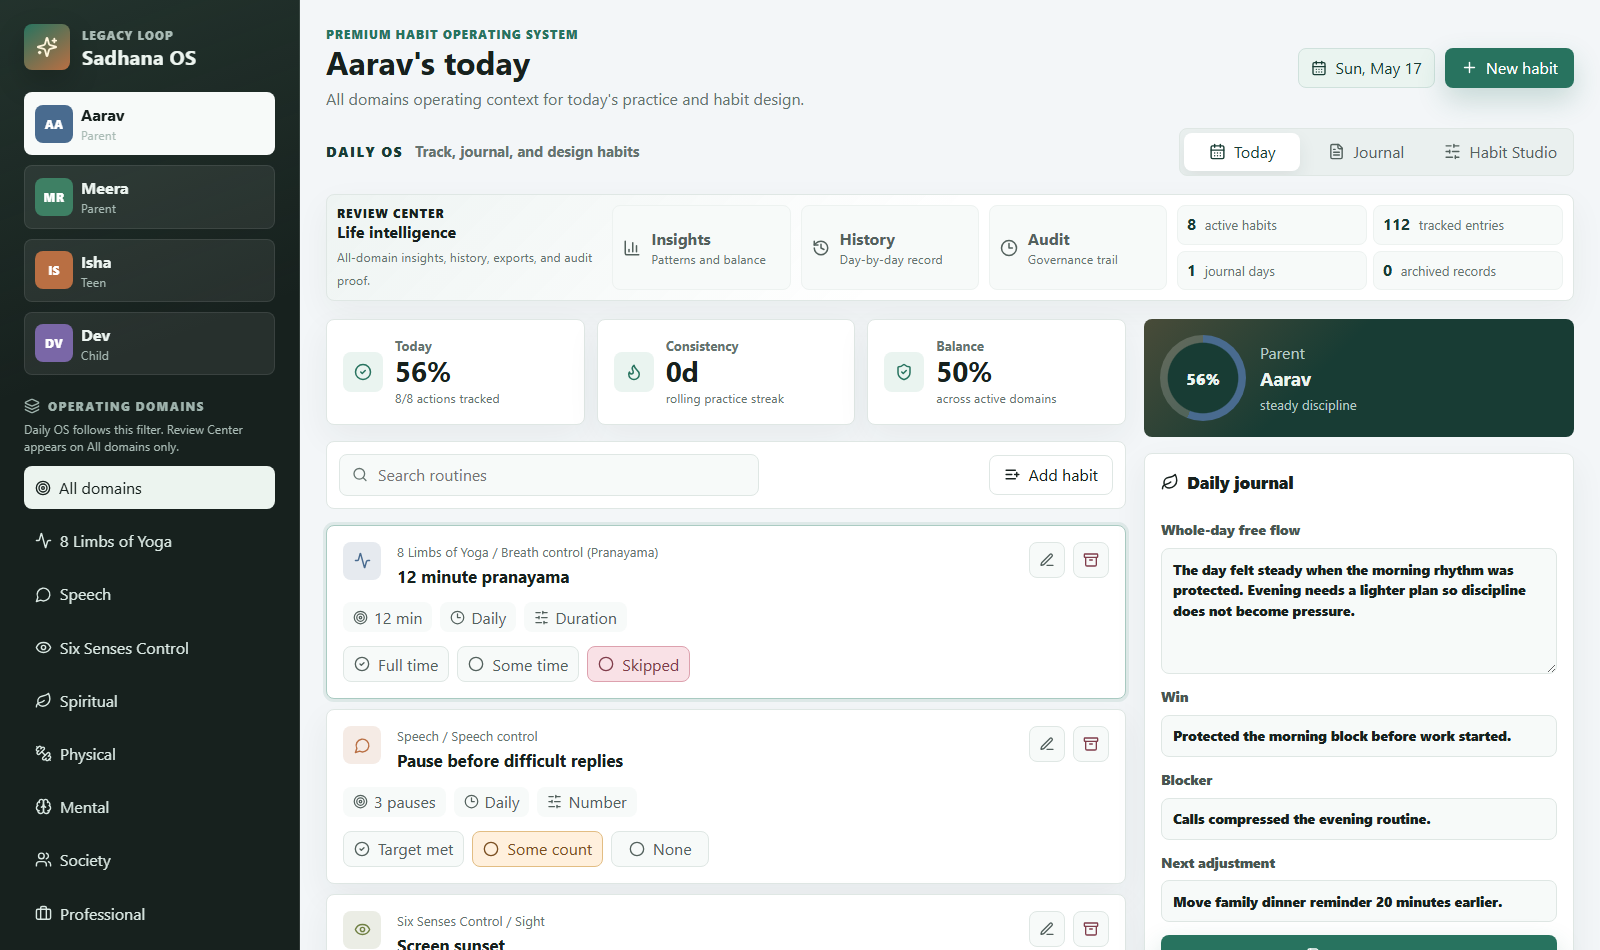
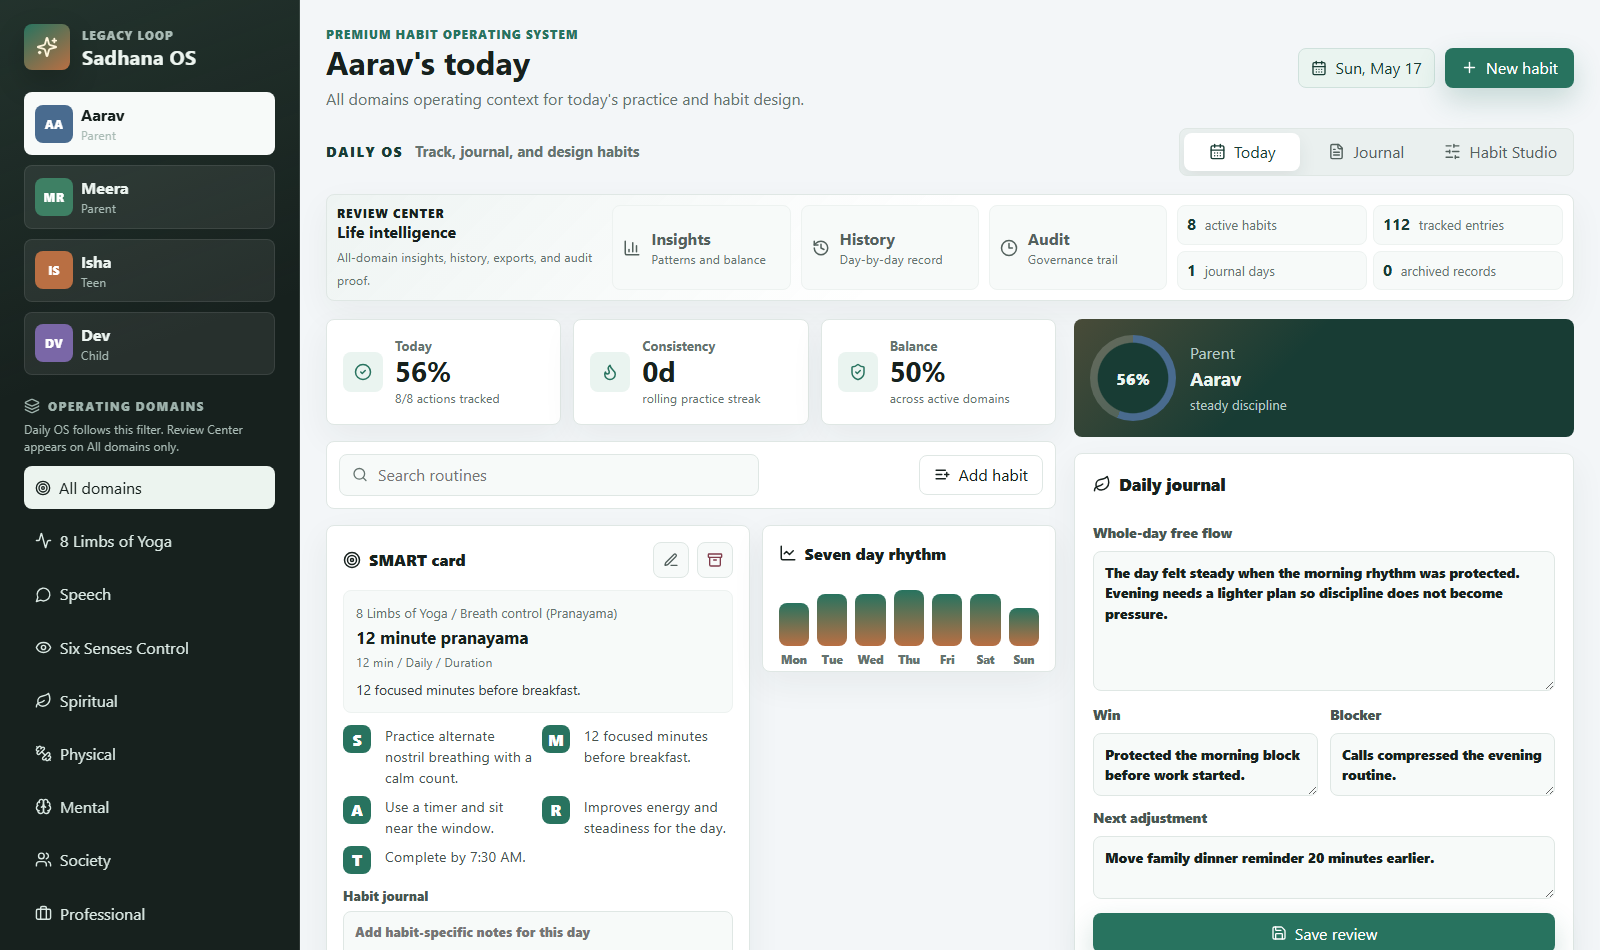
Refine Today workspace layout

diff --git a/src/App.jsx b/src/App.jsx
@@ -1439,6 +1439,22 @@ function TodayView({
           </button>
         </div>
 
+        <div className="practice-review-stack">
+          <HabitDetailPanel
+            habit={selectedHabit}
+            data={data}
+            entry={todayEntries.find((item) => item.habitId === selectedHabit?.id)}
+            onEdit={openHabitEditor}
+            onArchive={archiveHabit}
+            onNote={handleEntryNote}
+          />
+
+          <div className="panel rhythm-panel">
+            <PanelTitle icon={LineChart} title="Seven day rhythm" />
+            <MiniBars data={weeklyTrend} />
+          </div>
+        </div>
+
         <div className="routine-list">
           {!memberHabits.length && (
             <div className="panel empty-panel">
@@ -1538,7 +1554,7 @@ function TodayView({
 
         <ReflectionPanel reflection={reflection} onSave={saveReflection} />
 
-        <div className="panel">
+        <div className="panel next-panel">
           <PanelTitle icon={Sparkles} title="Next best actions" />
           <div className="next-list">
             {nextActions.map((habit) => (
@@ -1549,20 +1565,6 @@ function TodayView({
             ))}
             {!nextActions.length && <p className="empty-state">All visible actions are complete.</p>}
           </div>
-        </div>
-
-        <HabitDetailPanel
-          habit={selectedHabit}
-          data={data}
-          entry={todayEntries.find((item) => item.habitId === selectedHabit?.id)}
-          onEdit={openHabitEditor}
-          onArchive={archiveHabit}
-          onNote={handleEntryNote}
-        />
-
-        <div className="panel">
-          <PanelTitle icon={LineChart} title="Seven day rhythm" />
-          <MiniBars data={weeklyTrend} />
         </div>
       </aside>
     </div>
@@ -2132,30 +2134,35 @@ function ReflectionPanel({ reflection, onSave }) {
           rows={5}
         />
       </label>
-      <label className="field-label">
-        Win
-        <input
-          value={draft.win}
-          onChange={(event) => setDraft({ ...draft, win: event.target.value })}
-          placeholder="What worked"
-        />
-      </label>
-      <label className="field-label">
-        Blocker
-        <input
-          value={draft.blocker}
-          onChange={(event) => setDraft({ ...draft, blocker: event.target.value })}
-          placeholder="What got in the way"
-        />
-      </label>
-      <label className="field-label">
-        Next adjustment
-        <input
-          value={draft.adjustment}
-          onChange={(event) => setDraft({ ...draft, adjustment: event.target.value })}
-          placeholder="What changes tomorrow"
-        />
-      </label>
+      <div className="reflection-fields">
+        <label className="field-label">
+          Win
+          <textarea
+            value={draft.win}
+            onChange={(event) => setDraft({ ...draft, win: event.target.value })}
+            placeholder="What worked"
+            rows={2}
+          />
+        </label>
+        <label className="field-label">
+          Blocker
+          <textarea
+            value={draft.blocker}
+            onChange={(event) => setDraft({ ...draft, blocker: event.target.value })}
+            placeholder="What got in the way"
+            rows={2}
+          />
+        </label>
+        <label className="field-label wide">
+          Next adjustment
+          <textarea
+            value={draft.adjustment}
+            onChange={(event) => setDraft({ ...draft, adjustment: event.target.value })}
+            placeholder="What changes tomorrow"
+            rows={2}
+          />
+        </label>
+      </div>
       <button className="primary-action full" onClick={() => onSave(draft)}>
         <Save size={16} />
         Save review

diff --git a/src/styles.css b/src/styles.css
@@ -521,7 +521,7 @@ button {
 .dashboard-grid,
 .studio-layout {
   display: grid;
-  grid-template-columns: minmax(0, 1fr) minmax(430px, 0.34fr);
+  grid-template-columns: minmax(620px, 1fr) minmax(500px, 0.43fr);
   gap: 18px;
   align-items: start;
 }
@@ -530,6 +530,10 @@ button {
 .insight-column {
   display: grid;
   gap: 16px;
+}
+
+.insight-column {
+  align-content: start;
 }
 
 .metric-row {
@@ -627,6 +631,12 @@ button {
 .habit-card.is-selected {
   border-color: #aacbc2;
   box-shadow: 0 0 0 3px rgba(40, 115, 95, 0.1);
+}
+
+@media (min-width: 1500px) {
+  .routine-list {
+    grid-template-columns: repeat(2, minmax(0, 1fr));
+  }
 }
 
 .habit-head {
@@ -738,6 +748,13 @@ button {
   padding: 16px;
 }
 
+.side-top-grid {
+  display: grid;
+  grid-template-columns: minmax(0, 1.1fr) minmax(210px, 0.9fr);
+  gap: 12px;
+  align-items: stretch;
+}
+
 .profile-panel {
   display: flex;
   align-items: center;
@@ -747,6 +764,21 @@ button {
     linear-gradient(135deg, rgba(185, 111, 67, 0.3), transparent 42%),
     var(--green-dark);
   border-radius: 8px;
+}
+
+.side-top-grid .profile-panel {
+  min-width: 0;
+}
+
+.side-top-grid .profile-ring {
+  width: 72px;
+  height: 72px;
+}
+
+.next-panel {
+  display: grid;
+  align-content: start;
+  min-width: 0;
 }
 
 .profile-panel p,
@@ -920,7 +952,8 @@ button {
 
 .reflection-panel {
   display: grid;
-  gap: 13px;
+  gap: 14px;
+  padding: 18px;
 }
 
 .reflection-panel .panel-title span {
@@ -933,12 +966,50 @@ button {
 }
 
 .reflection-panel .field-label textarea {
-  min-height: 126px;
+  min-height: 140px;
   line-height: 1.5;
+}
+
+.reflection-panel .reflection-fields textarea {
+  min-height: 58px;
 }
 
 .reflection-panel .field-label input {
   min-height: 42px;
+}
+
+.reflection-fields {
+  display: grid;
+  grid-template-columns: repeat(2, minmax(0, 1fr));
+  gap: 12px;
+}
+
+.reflection-fields .wide {
+  grid-column: 1 / -1;
+}
+
+.practice-review-stack {
+  display: grid;
+  grid-template-columns: minmax(0, 1.18fr) minmax(240px, 0.82fr);
+  gap: 12px;
+  align-items: start;
+}
+
+.practice-review-stack .smart-panel,
+.rhythm-panel {
+  min-width: 0;
+}
+
+.practice-review-stack .smart-list {
+  grid-template-columns: repeat(2, minmax(0, 1fr));
+}
+
+.practice-review-stack .smart-list div:last-child {
+  grid-column: 1 / -1;
+}
+
+.rhythm-panel .mini-bars {
+  height: 78px;
 }
 
 .journal-layout,
@@ -1178,7 +1249,12 @@ button {
   justify-items: center;
 }
 
+.mini-bar {
+  grid-template-rows: minmax(0, 1fr) auto;
+}
+
 .mini-bar span {
+  align-self: end;
   width: 100%;
   min-height: 6px;
   background: linear-gradient(180deg, #28735f, #b96f43);
@@ -1671,8 +1747,11 @@ button {
   .analytics-grid,
   .history-panels,
   .form-grid,
+  .practice-review-stack,
+  .reflection-fields,
   .review-center-metrics,
   .review-tabs,
+  .side-top-grid,
   .smart-editor,
   .member-checks,
   .member-list,
